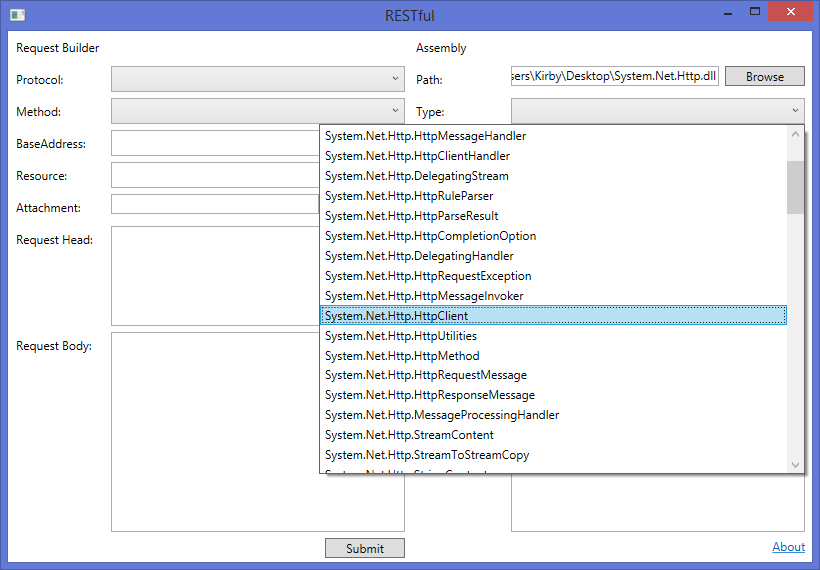
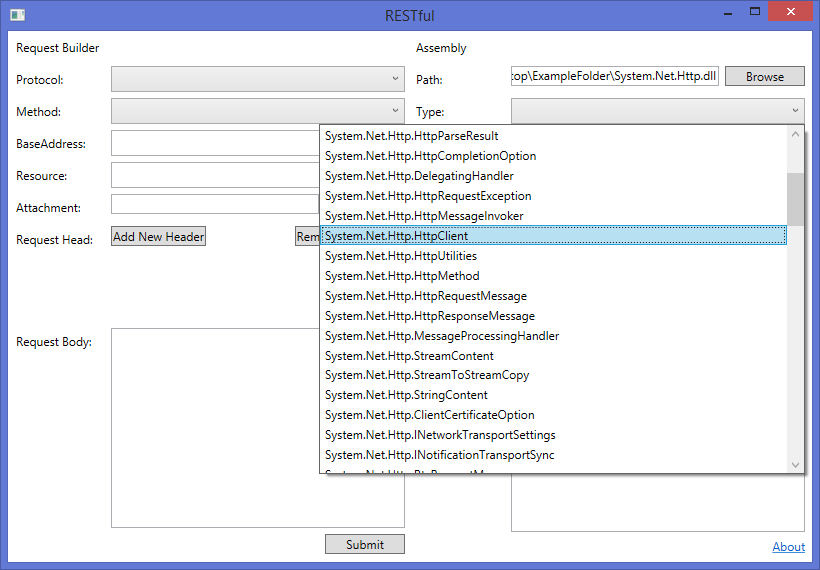
Updated Images
For the Importing an Assembly and Populating a Request Body Template
wiki

diff --git a/RESTful/MainWindow.xaml.cs b/RESTful/MainWindow.xaml.cs
@@ -189,7 +189,7 @@ namespace RESTful
             SaveImportInputs();
 
             // Ensure user defined inputs have value
-            if ((AssemblyFilePath.Text != null) && (Types.SelectedValue != null) && (Types.SelectedValue.ToString() != ""))
+            if ((AssemblyFilePath.Text != null) && (Types.SelectedValue != null) && (Types.SelectedValue.ToString() != "") && (Format.Text != null) && (Format.Text != ""))
             {
                 if (Format.SelectedValue.ToString() == "JSON")
                 {
